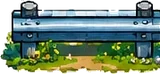
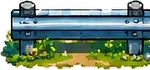
Les glissières : une seule section, tournée au cap exact
LA PLANCHE DE TRENTE-DEUX ORIENTATIONS EST DESSINÉE EN TROIS QUARTS, et c'est ce qui rendait les
glissières fausses. L'idée était bonne — un dessin posé sans rotation garde la lumière qu'on lui a
peinte — mais ces trente-deux-là ne conviennent pas à une caméra à quatre-vingt-dix degrés.

La mesure le dit sans appel : en cherchant de quelle rotation il faut tourner le dessin à zéro
degré pour retrouver chacun des autres, le libellé va de 0 à 90° pendant que l'IMAGE ne tourne que
de 0 à 30°. La verticale y est écrasée par la projection. Un jeu vu de dessus a besoin qu'une
glissière longeant une route en biais soit en biais ; aucun de ces dessins ne l'est assez, et c'est
pour ça qu'elles montaient en escalier le long d'une diagonale.

TROIS MESURES ONT ÉCHOUÉ avant celle-là, et chacune pour une raison qu'il valait mieux comprendre :
l'axe principal des pixels, tiré par les poteaux ; la droite joignant les deux poteaux, qui suppose
de les reconnaître et la segmentation en trouvait trois ou quatre ; un anneau d'essai, trop petit
pour qu'on y lise vingt degrés d'écart. La bonne question ne portait sur aucune de ces choses : « de
quelle rotation passe-t-on d'un dessin à l'autre » n'a pas besoin de savoir ce qu'est une
glissière, et c'est pour ça qu'elle a répondu.

ON REPREND DONC UNE SEULE SECTION — la plate, celle dont l'écrasement est nul — ET ON LA TOURNE AU
CAP EXACT. L'orientation est juste par construction, au degré près, et la jonction aussi : toutes
[…]

diff --git a/js/props.js b/js/props.js
@@ -244,27 +244,15 @@ const KINDS_DESSINES = [
 /* Les images, chargées une fois. Tant qu'elles ne sont pas là, `buildTopArt` retombe sur les
    objets peints : une course qui démarre pendant le chargement montre un décor peint plutôt
    qu'un décor vide, et `aPeint` dira plus tard de refaire la cuisson. */
-/* LES GLISSIÈRES EN TRENTE-DEUX ORIENTATIONS, et ce n'est pas un luxe.
-
-   Une tuile unique qu'on fait pivoter fait pivoter sa LUMIÈRE avec elle : le reflet sur le rail
-   partait vers le haut dans un sens et vers le bas dans l'autre, et c'est exactement ce qu'on
-   avait reproché aux arbres. Un décor dessiné n'a qu'un soleil. Trente-deux dessins, un tous les
-   onze degrés et quart, règlent la question : chacun est posé sans rotation, donc chacun garde la
-   lumière qu'on lui a peinte.
-
-   Elles remplacent aussi les longues tuiles de quatorze mètres : une section se pose tous les
-   quelques mètres, comme une vraie glissière se boulonne poteau par poteau, et le pas court suit
-   la courbure sans laisser de jour. */
 /* LE MUR DE PNEUS, et pourquoi il se pose un pneu à la fois.
 
-   Vu de dessus, UN PNEU EST ROND : il n'a pas d'orientation, donc aucune lumière à faire pivoter
-   et aucune planche de trente-deux angles à prévoir. C'est le seul objet du mobilier qu'on peut
-   semer librement. Les murs tout faits de la planche sont des tuiles droites ou des arcs de rayon
-   fixe ; posés un par un, les mêmes pneus épousent n'importe quelle courbure.
+   Vu de dessus, UN PNEU EST ROND : il n'a pas d'orientation, donc aucune lumière à faire pivoter et
+   aucune planche d'angles à prévoir. C'est le seul objet du mobilier qu'on peut semer librement, et
+   c'est ce qui lui permet d'épouser n'importe quelle courbure là où les murs tout faits de la
+   planche sont des tuiles droites ou des arcs de rayon fixe.
 
-   Ils bordent le GRAVIER, pas la piste : c'est là qu'ils servent, et c'est pour ça que leur
-   position se déduit de `largeurBac` plutôt que d'un recul à eux — agrandir le bac les emmène
-   avec lui, sans qu'on ait à y penser. */
+   Il borde le GRAVIER et non la piste — c'est là qu'il sert — donc sa position se déduit de la
+   largeur du bac : l'agrandir l'emmène avec lui. */
 const PNEUS = ['art/decor/pneu-1.webp', 'art/decor/pneu-2.webp',
   'art/decor/pneu-3.webp', 'art/decor/pneu-4.webp'];
 /* UN MUR DE PNEUS N'EST PAS UN PNEU. Posés à leur taille réelle — soixante-dix centimètres — ils
@@ -272,17 +260,32 @@ const PNEUS = ['art/decor/pneu-1.webp', 'art/decor/pneu-2.webp',
    plusieurs pneus liés, et c'est cet objet-là que la planche dessine : deux mètres de côté. */
 const PNEU_M = 2.1;
 
-const RAILS = [];
-for (let i = 0; i < 32; i++) RAILS.push('art/decor/rail/r' + String(i).padStart(2, '0') + '.webp');
-/* L'ÉCHELLE EST EN PIXELS PAR MÈTRE, PAS EN MÈTRES PAR DESSIN. Les trente-deux dessins montrent
-   la MÊME glissière sous trente-deux angles : sa boîte est large et basse à zéro degré, étroite et
-   haute à quatre-vingt-dix. Leur donner à tous la même largeur en mètres étirait la glissière de
-   moitié aux angles obliques. On fixe donc la définition — vingt-cinq pixels et demi par mètre,
-   choisie pour qu'une section à plat fasse sept mètres — et chaque dessin prend la largeur que sa
-   propre boîte lui donne. */
-const RAIL_PPM = 25.6;
+/* LA GLISSIÈRE : UN SEUL DESSIN, TOURNÉ — et c'est une planche qui a tranché, pas un goût.
+
+   La planche fournit trente-deux orientations, et l'idée était juste : un dessin posé sans rotation
+   garde la lumière qu'on lui a peinte, là qu'une tuile qu'on fait pivoter fait pivoter son reflet
+   avec elle. Sauf que ces trente-deux-là ne conviennent pas à CE jeu, et la mesure le dit sans
+   appel : en cherchant de quelle rotation il faut tourner le dessin à zéro degré pour retrouver
+   chacun des autres, on trouve que le libellé va de 0 à 90° pendant que l'image ne tourne, elle,
+   que de 0 à 30°. La planche est dessinée en TROIS QUARTS : la verticale y est écrasée par la
+   projection. Un jeu vu de dessus a besoin qu'une glissière longeant une route en biais soit en
+   biais ; aucun de ces dessins ne l'est assez.
+
+   Trois mesures ont échoué avant celle-là — l'axe des pixels, tiré par les poteaux ; la droite
+   joignant les deux poteaux, qui suppose de les reconnaître ; l'anneau d'essai, trop petit pour
+   qu'on y lise un écart de vingt degrés. La bonne question ne portait sur aucune de ces choses :
+   « de quelle rotation passe-t-on d'un dessin à l'autre » n'a pas besoin de savoir ce qu'est une
+   glissière, et c'est pour ça qu'elle a répondu.
+
+   On reprend donc UNE section — la plate, celle dont l'écrasement est nul — et on la tourne au cap
+   exact. L'orientation est alors juste par construction, et la jonction aussi, puisque toutes les
+   sections sont identiques et parfaitement alignées. Le reflet tourne avec le rail : sur une barre
+   métallique presque symétrique, ça ne se voit pas, là où sur une couronne d'arbre ça sautait aux
+   yeux. C'est l'échange, et il est du bon côté. */
+const RAIL_F = 'art/decor/rail/r00.webp';
+const RAIL_PPM = 21.4;       // cent cinquante pixels pour sept mètres
 const RAIL_LONG = 7.0;       // la longueur réelle d'une section, qui décide du pas de pose
-const RAIL_ANC = 0.76;       // son appui au sol : le bas du dessin, où est l'herbe
+const RAIL_ANC = [0.5496, 0.3745];   // le milieu du rail dans sa boîte, mesuré sur le dessin
 
 const ART_DESSINE = {};
 let decorCharge = 0, decorAttendu = 0;
@@ -294,7 +297,7 @@ let ART_GRAVIER = null;
 function chargeDecor(fini) {
   if (typeof Image === 'undefined') return;
   decorAttendu = KINDS_DESSINES.length + OMBRES_DESSIN.length + MOBILIER.length
-    + RAILS.length + PNEUS.length + 1;
+    + PNEUS.length + 2;
   const un = () => { if (++decorCharge === decorAttendu && fini) fini(); };
   for (const k of KINDS_DESSINES) {
     const img = new Image();
@@ -314,12 +317,12 @@ function chargeDecor(fini) {
     img.onerror = un;
     img.src = f;
   });
-  RAILS.forEach((f, i) => {
+  {
     const img = new Image();
-    img.onload = () => { ART_DESSINE['rail-' + i] = img; un(); };
+    img.onload = () => { ART_DESSINE.rail = img; un(); };
     img.onerror = un;
-    img.src = f;
-  });
+    img.src = RAIL_F;
+  }
   {
     const img = new Image();
     img.onload = () => { ART_GRAVIER = img; un(); };
@@ -757,12 +760,10 @@ function buildTopArt(pal) {
     art['pneu-' + i] = { canvas: img, wm: PNEU_M, cuite: true, anc: 0.5,
       hm: PNEU_M * (img.naturalHeight / img.naturalWidth) };
   }
-  for (let i = 0; i < RAILS.length; i++) {
-    const img = ART_DESSINE['rail-' + i];
-    if (!img) continue;
-    const wm = img.naturalWidth / RAIL_PPM;
-    art['rail-' + i] = { canvas: img, wm, cuite: true, anc: RAIL_ANC,
-      hm: img.naturalHeight / RAIL_PPM };
+  {
+    const img = ART_DESSINE.rail;
+    if (img) art.rail = { canvas: img, wm: img.naturalWidth / RAIL_PPM, cuite: true,
+      ancX: RAIL_ANC[0], anc: RAIL_ANC[1], hm: img.naturalHeight / RAIL_PPM };
   }
   for (const k of TOP_KINDS) {
     if (art[k.id]) continue;
@@ -1141,20 +1142,30 @@ function poseBarrieres(track, id) {
          le plus proche du cap, et on le pose tel quel : c'est ce qui garde une lumière unique sur
          tout le circuit. Un demi-tour sépare les deux côtés — le rail regarde la piste, donc il
          regarde à l'opposé selon qu'on est à gauche ou à droite du ruban. */
-      /* LE SENS DE ROTATION DE LA PLANCHE EST L'INVERSE DE CELUI DU CAP. Les angles d'une planche
-         se lisent dans le sens trigonométrique ; le cap d'une piste, lui, tourne dans le sens des
-         aiguilles parce que l'axe des ordonnées de la toile descend. Posées au cap tel quel, les
-         glissières se plantaient en travers de la piste — et d'autant plus que la piste tournait. */
-      const cap = -track.th[i] + (cote > 0 ? 0 : Math.PI);
-      const n = RAILS.length;
-      const idx = ((Math.round(cap / (2 * Math.PI) * n) % n) + n) % n;
+      /* LE CAP EXACT, pas le plus proche d'une liste. C'est tout l'intérêt de revenir à un seul
+         dessin : la glissière est parallèle à la route au degré près, sur toute sa longueur, et
+         deux sections voisines sont rigoureusement alignées. Un demi-tour sépare les deux côtés —
+         le rail regarde la piste, donc il regarde à l'opposé selon le bord. */
+      const cap = track.th[i] + (cote > 0 ? 0 : Math.PI);
       /* LE PAS EST BIEN PLUS COURT QUE LA SECTION, et c'est la géométrie du dessin qui l'impose.
          À zéro degré la glissière occupe toute la largeur de sa boîte ; à quarante-cinq elle la
          traverse en diagonale, donc ce qu'elle couvre LE LONG DE LA PISTE est bien moindre que la
          boîte. Poser au pas de la boîte laissait un jour sur deux tronçons obliques sur trois. On
          recouvre donc franchement : deux glissières superposées font une glissière, un trou entre
          deux n'en fait pas. */
-      const pas = RAIL_LONG * (enVirage[i] ? 0.5 : 0.62);
+      /* LE PAS VAUT PRESQUE LA SECTION. Avec des dessins à la même échelle, la glissière mesure
+         sept mètres quel que soit son angle : il suffit de poser la suivante juste avant la fin de
+         la précédente. Le recouvrement franc d'avant servait à masquer des sections de tailles
+         inégales — un symptôme, pas une solution. */
+      /* LE PAS SE RÈGLE SUR LE RAIL, PAS SUR LA BOÎTE. La boîte du dessin comprend la bande
+         d'herbe, qui dépasse aux deux bouts : le métal n'occupe que les quatre cinquièmes. Un pas
+         calé sur la boîte laissait donc un jour à chaque jonction, assez petit pour qu'on ne voie
+         pas d'où il venait et assez régulier pour qu'on le voie partout. */
+      /* LE PAS SE RÈGLE SUR LE MÉTAL, PAS SUR LA BOÎTE. La boîte comprend la bande d'herbe, qui
+         dépasse aux deux bouts : le rail n'occupe que les quatre cinquièmes. Et en virage, deux
+         sections droites posées bout à bout le long d'un arc laissent un coin de vide à
+         l'extérieur — la corde est plus courte que l'arc. */
+      const pas = RAIL_LONG * (enVirage[i] ? 0.62 : 0.76);
       const hw = cote > 0 ? track.hwL[i] : track.hwR[i];
       const lat = (hw + recul[i]) * cote;
       const x = track.xs[i] + track.nx[i] * lat, y = track.ys[i] + track.ny[i] * lat;
@@ -1174,7 +1185,7 @@ function poseBarrieres(track, id) {
         const dx = x - track.xs[j], dy = y - track.ys[j];
         if (dx * dx + dy * dy < (track.halfWidth + 5) * (track.halfWidth + 5)) dehors = false;
       }
-      if (dehors) out.push({ x, y, id: 'rail-' + idx, ech: 1, ton: 0, om: 0, rot: 0 });
+      if (dehors) out.push({ x, y, id: 'rail', ech: 1, ton: 0, om: 0, rot: cap });
       s += pas;
     }
   }

diff --git a/index.html b/index.html
@@ -7,38 +7,38 @@
   <meta name="mobile-web-app-capable" content="yes">
   <meta name="theme-color" content="#0f1117">
   <title>Eyes On Line</title>
-  <link rel="icon" type="image/png" sizes="32x32" href="art/casque-32.png?v=0.21.165">
-  <link rel="icon" type="image/png" sizes="16x16" href="art/casque-16.png?v=0.21.165">
-  <link rel="icon" type="image/png" sizes="48x48" href="art/casque-48.png?v=0.21.165">
-  <link rel="icon" type="image/x-icon" href="favicon.ico?v=0.21.165">
-  <link rel="apple-touch-icon" href="art/casque-180.png?v=0.21.165">
-  <link rel="manifest" href="site.webmanifest?v=0.21.165">
-  <link rel="stylesheet" href="css/style.css?v=0.21.165">
+  <link rel="icon" type="image/png" sizes="32x32" href="art/casque-32.png?v=0.21.166">
+  <link rel="icon" type="image/png" sizes="16x16" href="art/casque-16.png?v=0.21.166">
+  <link rel="icon" type="image/png" sizes="48x48" href="art/casque-48.png?v=0.21.166">
+  <link rel="icon" type="image/x-icon" href="favicon.ico?v=0.21.166">
+  <link rel="apple-touch-icon" href="art/casque-180.png?v=0.21.166">
+  <link rel="manifest" href="site.webmanifest?v=0.21.166">
+  <link rel="stylesheet" href="css/style.css?v=0.21.166">
 </head>
 <body>
   <canvas id="game"></canvas>
   <div id="ui" class="hidden"></div>
 
-  <script src="js/version.js?v=0.21.165"></script>
-  <script src="js/util.js?v=0.21.165"></script>
-  <script src="js/traces.js?v=0.21.165"></script>
-  <script src="js/tracks.js?v=0.21.165"></script>
-  <script src="js/track.js?v=0.21.165"></script>
-  <script src="js/cars.js?v=0.21.165"></script>
-  <script src="js/carart.js?v=0.21.165"></script>
-  <script src="js/car.js?v=0.21.165"></script>
-  <script src="js/race.js?v=0.21.165"></script>
-  <script src="js/career.js?v=0.21.165"></script>
-  <script src="js/store.js?v=0.21.165"></script>
-  <script src="js/props.js?v=0.21.165"></script>
-  <script src="js/room-rtc.js?v=0.21.165"></script>
-  <script src="js/paquet.js?v=0.21.165"></script>
-  <script src="js/net.js?v=0.21.165"></script>
-  <script src="js/mondial.js?v=0.21.165"></script>
-  <script src="js/render.js?v=0.21.165"></script>
-  <script src="js/engine-audio.js?v=0.21.165"></script>
-  <script src="js/audio.js?v=0.21.165"></script>
-  <script src="js/ui.js?v=0.21.165"></script>
-  <script src="js/main.js?v=0.21.165"></script>
+  <script src="js/version.js?v=0.21.166"></script>
+  <script src="js/util.js?v=0.21.166"></script>
+  <script src="js/traces.js?v=0.21.166"></script>
+  <script src="js/tracks.js?v=0.21.166"></script>
+  <script src="js/track.js?v=0.21.166"></script>
+  <script src="js/cars.js?v=0.21.166"></script>
+  <script src="js/carart.js?v=0.21.166"></script>
+  <script src="js/car.js?v=0.21.166"></script>
+  <script src="js/race.js?v=0.21.166"></script>
+  <script src="js/career.js?v=0.21.166"></script>
+  <script src="js/store.js?v=0.21.166"></script>
+  <script src="js/props.js?v=0.21.166"></script>
+  <script src="js/room-rtc.js?v=0.21.166"></script>
+  <script src="js/paquet.js?v=0.21.166"></script>
+  <script src="js/net.js?v=0.21.166"></script>
+  <script src="js/mondial.js?v=0.21.166"></script>
+  <script src="js/render.js?v=0.21.166"></script>
+  <script src="js/engine-audio.js?v=0.21.166"></script>
+  <script src="js/audio.js?v=0.21.166"></script>
+  <script src="js/ui.js?v=0.21.166"></script>
+  <script src="js/main.js?v=0.21.166"></script>
 </body>
 </html>

diff --git a/lignes.html b/lignes.html
@@ -4,12 +4,12 @@
 <meta charset="utf-8">
 <meta name="viewport" content="width=device-width, initial-scale=1, viewport-fit=cover, maximum-scale=1">
 <title>Eyes On Line — Éditeur de lignes et de panneaux</title>
-<link rel="icon" type="image/png" sizes="32x32" href="art/casque-32.png?v=0.21.165">
-<link rel="icon" type="image/png" sizes="16x16" href="art/casque-16.png?v=0.21.165">
-<link rel="icon" type="image/png" sizes="48x48" href="art/casque-48.png?v=0.21.165">
-<link rel="icon" type="image/x-icon" href="favicon.ico?v=0.21.165">
-<link rel="apple-touch-icon" href="art/casque-180.png?v=0.21.165">
-<link rel="stylesheet" href="css/style.css?v=0.21.165">
+<link rel="icon" type="image/png" sizes="32x32" href="art/casque-32.png?v=0.21.166">
+<link rel="icon" type="image/png" sizes="16x16" href="art/casque-16.png?v=0.21.166">
+<link rel="icon" type="image/png" sizes="48x48" href="art/casque-48.png?v=0.21.166">
+<link rel="icon" type="image/x-icon" href="favicon.ico?v=0.21.166">
+<link rel="apple-touch-icon" href="art/casque-180.png?v=0.21.166">
+<link rel="stylesheet" href="css/style.css?v=0.21.166">
 <style>
   body { overflow: hidden; }
   #ed { position: fixed; inset: 0; display: grid; grid-template-columns: 340px 1fr; }
@@ -240,13 +240,13 @@
   </div>
 </div>
 
-<script src="js/store.js?v=0.21.165"></script>
-<script src="js/util.js?v=0.21.165"></script>
-<script src="js/traces.js?v=0.21.165"></script>
-<script src="js/tracks.js?v=0.21.165"></script>
-<script src="js/track.js?v=0.21.165"></script>
-<script src="js/props.js?v=0.21.165"></script>
-<script src="js/render.js?v=0.21.165"></script>
-<script src="js/lignes.js?v=0.21.165"></script>
+<script src="js/store.js?v=0.21.166"></script>
+<script src="js/util.js?v=0.21.166"></script>
+<script src="js/traces.js?v=0.21.166"></script>
+<script src="js/tracks.js?v=0.21.166"></script>
+<script src="js/track.js?v=0.21.166"></script>
+<script src="js/props.js?v=0.21.166"></script>
+<script src="js/render.js?v=0.21.166"></script>
+<script src="js/lignes.js?v=0.21.166"></script>
 </body>
 </html>

diff --git a/editor.html b/editor.html
@@ -4,12 +4,12 @@
   <meta charset="utf-8">
   <meta name="viewport" content="width=device-width, initial-scale=1">
   <title>Eyes On Line — Éditeur de circuits</title>
-  <link rel="icon" type="image/png" sizes="32x32" href="art/casque-32.png?v=0.21.165">
-  <link rel="icon" type="image/png" sizes="16x16" href="art/casque-16.png?v=0.21.165">
-  <link rel="icon" type="image/png" sizes="48x48" href="art/casque-48.png?v=0.21.165">
-  <link rel="icon" type="image/x-icon" href="favicon.ico?v=0.21.165">
-  <link rel="apple-touch-icon" href="art/casque-180.png?v=0.21.165">
-  <link rel="stylesheet" href="css/style.css?v=0.21.165">
+  <link rel="icon" type="image/png" sizes="32x32" href="art/casque-32.png?v=0.21.166">
+  <link rel="icon" type="image/png" sizes="16x16" href="art/casque-16.png?v=0.21.166">
+  <link rel="icon" type="image/png" sizes="48x48" href="art/casque-48.png?v=0.21.166">
+  <link rel="icon" type="image/x-icon" href="favicon.ico?v=0.21.166">
+  <link rel="apple-touch-icon" href="art/casque-180.png?v=0.21.166">
+  <link rel="stylesheet" href="css/style.css?v=0.21.166">
   <style>
     body { overflow: hidden; }
     #ed { position: fixed; inset: 0; display: grid; grid-template-columns: 300px 1fr; }
@@ -63,9 +63,9 @@
     </div>
     <canvas id="cv"></canvas>
   </div>
-  <script src="js/util.js?v=0.21.165"></script>
-  <script src="js/track.js?v=0.21.165"></script>
-  <script src="js/store.js?v=0.21.165"></script>
-  <script src="js/editor.js?v=0.21.165"></script>
+  <script src="js/util.js?v=0.21.166"></script>
+  <script src="js/track.js?v=0.21.166"></script>
+  <script src="js/store.js?v=0.21.166"></script>
+  <script src="js/editor.js?v=0.21.166"></script>
 </body>
 </html>

diff --git a/moteur.html b/moteur.html
@@ -4,12 +4,12 @@
   <meta charset="utf-8">
   <meta name="viewport" content="width=device-width, initial-scale=1, viewport-fit=cover">
   <title>Eyes On Line — banc moteur</title>
-  <link rel="icon" type="image/png" sizes="32x32" href="art/casque-32.png?v=0.21.165">
-  <link rel="icon" type="image/png" sizes="16x16" href="art/casque-16.png?v=0.21.165">
-  <link rel="icon" type="image/png" sizes="48x48" href="art/casque-48.png?v=0.21.165">
-  <link rel="icon" type="image/x-icon" href="favicon.ico?v=0.21.165">
-  <link rel="apple-touch-icon" href="art/casque-180.png?v=0.21.165">
-  <link rel="stylesheet" href="css/style.css?v=0.21.165">
+  <link rel="icon" type="image/png" sizes="32x32" href="art/casque-32.png?v=0.21.166">
+  <link rel="icon" type="image/png" sizes="16x16" href="art/casque-16.png?v=0.21.166">
+  <link rel="icon" type="image/png" sizes="48x48" href="art/casque-48.png?v=0.21.166">
+  <link rel="icon" type="image/x-icon" href="favicon.ico?v=0.21.166">
+  <link rel="apple-touch-icon" href="art/casque-180.png?v=0.21.166">
+  <link rel="stylesheet" href="css/style.css?v=0.21.166">
   <style>
     body { margin: 0; background: #0f1117; color: #e8e8ec; font: 15px/1.5 system-ui, sans-serif; }
     .banc { max-width: 720px; margin: 0 auto; padding: 18px 16px 60px; }
@@ -55,7 +55,7 @@
     <p class="muted" style="margin-top:18px">Ce que le mélangeur envoie, en direct :</p>
     <table id="voies"></table>
   </div>
-  <script src="js/engine-audio.js?v=0.21.165"></script>
-  <script src="js/moteur.js?v=0.21.165"></script>
+  <script src="js/engine-audio.js?v=0.21.166"></script>
+  <script src="js/moteur.js?v=0.21.166"></script>
 </body>
 </html>

diff --git a/js/render.js b/js/render.js
@@ -2162,15 +2162,19 @@ class Renderer {
          s'appuie en son milieu ; un conifère dessiné en gouttelette s'appuie sur sa base, en bas
          du fichier. Centrer les deux pareil plantait les sapins un demi-sprite trop bas, et leur
          ombre, cuite sous la base, se retrouvait au milieu du voisin. */
+      /* L'ancre a DEUX coordonnées. Pour une couronne, le milieu horizontal suffit ; pour une
+         glissière oblique, dont le rail traverse sa boîte en diagonale, le point d'appui n'est pas
+         au milieu en largeur non plus, et le négliger décale la section le long de la route. */
+      const gauche = dx - wpx * (a.ancX == null ? 0.5 : a.ancX);
       const haut = dy - hpx * (a.anc == null ? 0.5 : a.anc);
       const toile = (a.tons && a.tons[p.ton]) || a.canvas;
       if (p.rot) {
         const c = Math.cos(p.rot), si = Math.sin(p.rot);
         g.setTransform(c, si, -si, c, dx, dy);
-        g.drawImage(toile, -wpx / 2, haut - dy, wpx, hpx);
+        g.drawImage(toile, gauche - dx, haut - dy, wpx, hpx);
         g.setTransform(1, 0, 0, 1, 0, 0);
       } else {
-        g.drawImage(toile, dx - wpx / 2, haut, wpx, hpx);
+        g.drawImage(toile, gauche, haut, wpx, hpx);
       }
     }
     g.setTransform(m);

diff --git a/js/version.js b/js/version.js
@@ -11,5 +11,5 @@ browser to fetch the new files.
 */
 'use strict';
 
-const APP_VERSION = '0.21.165';
+const APP_VERSION = '0.21.166';
 const APP_DATE = '2026-10-13';
